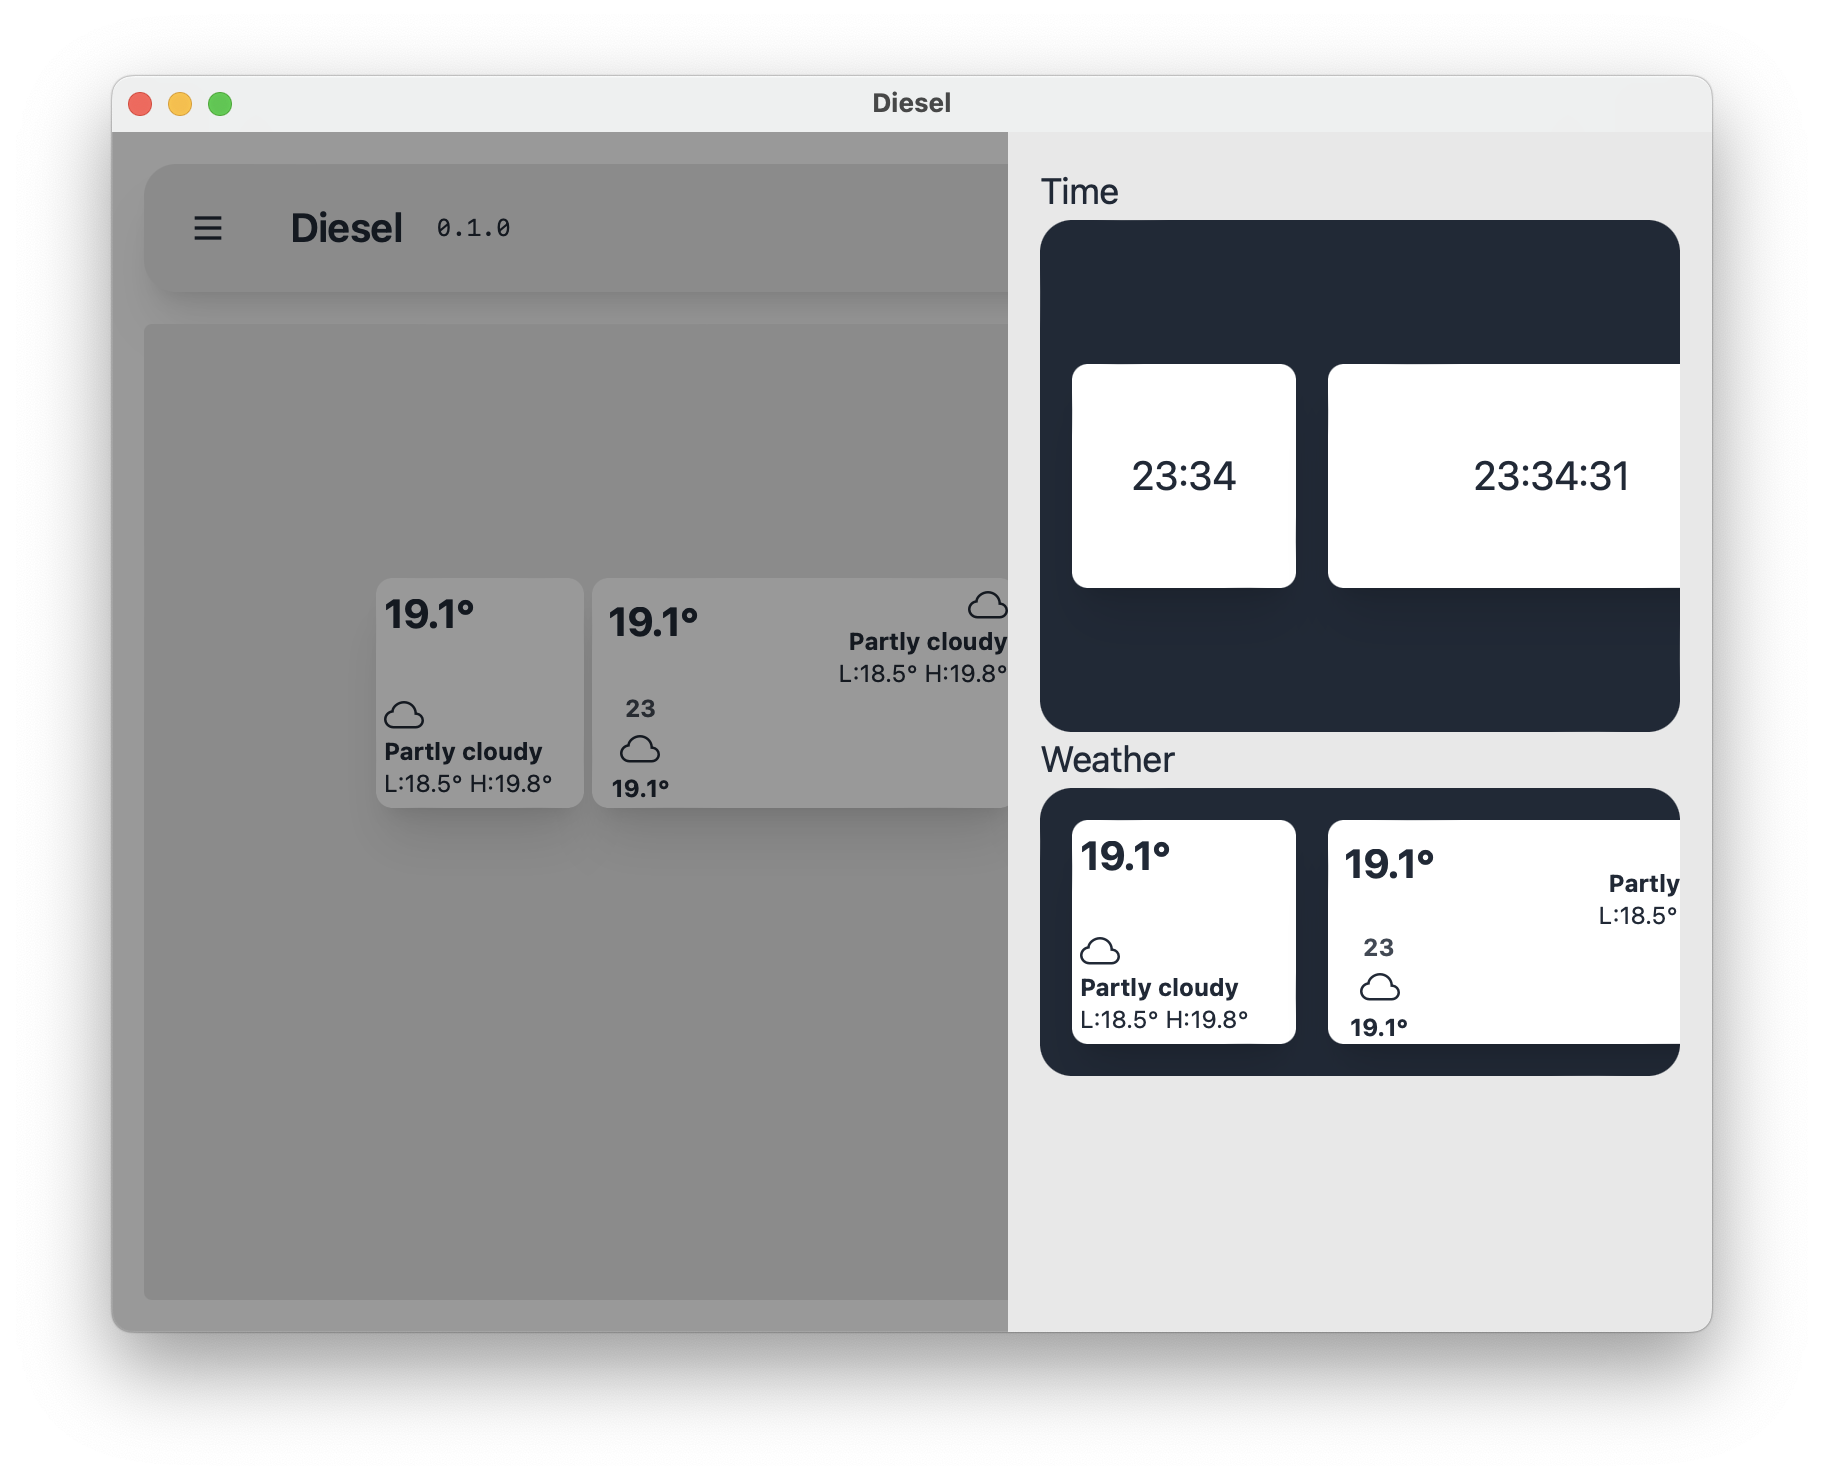
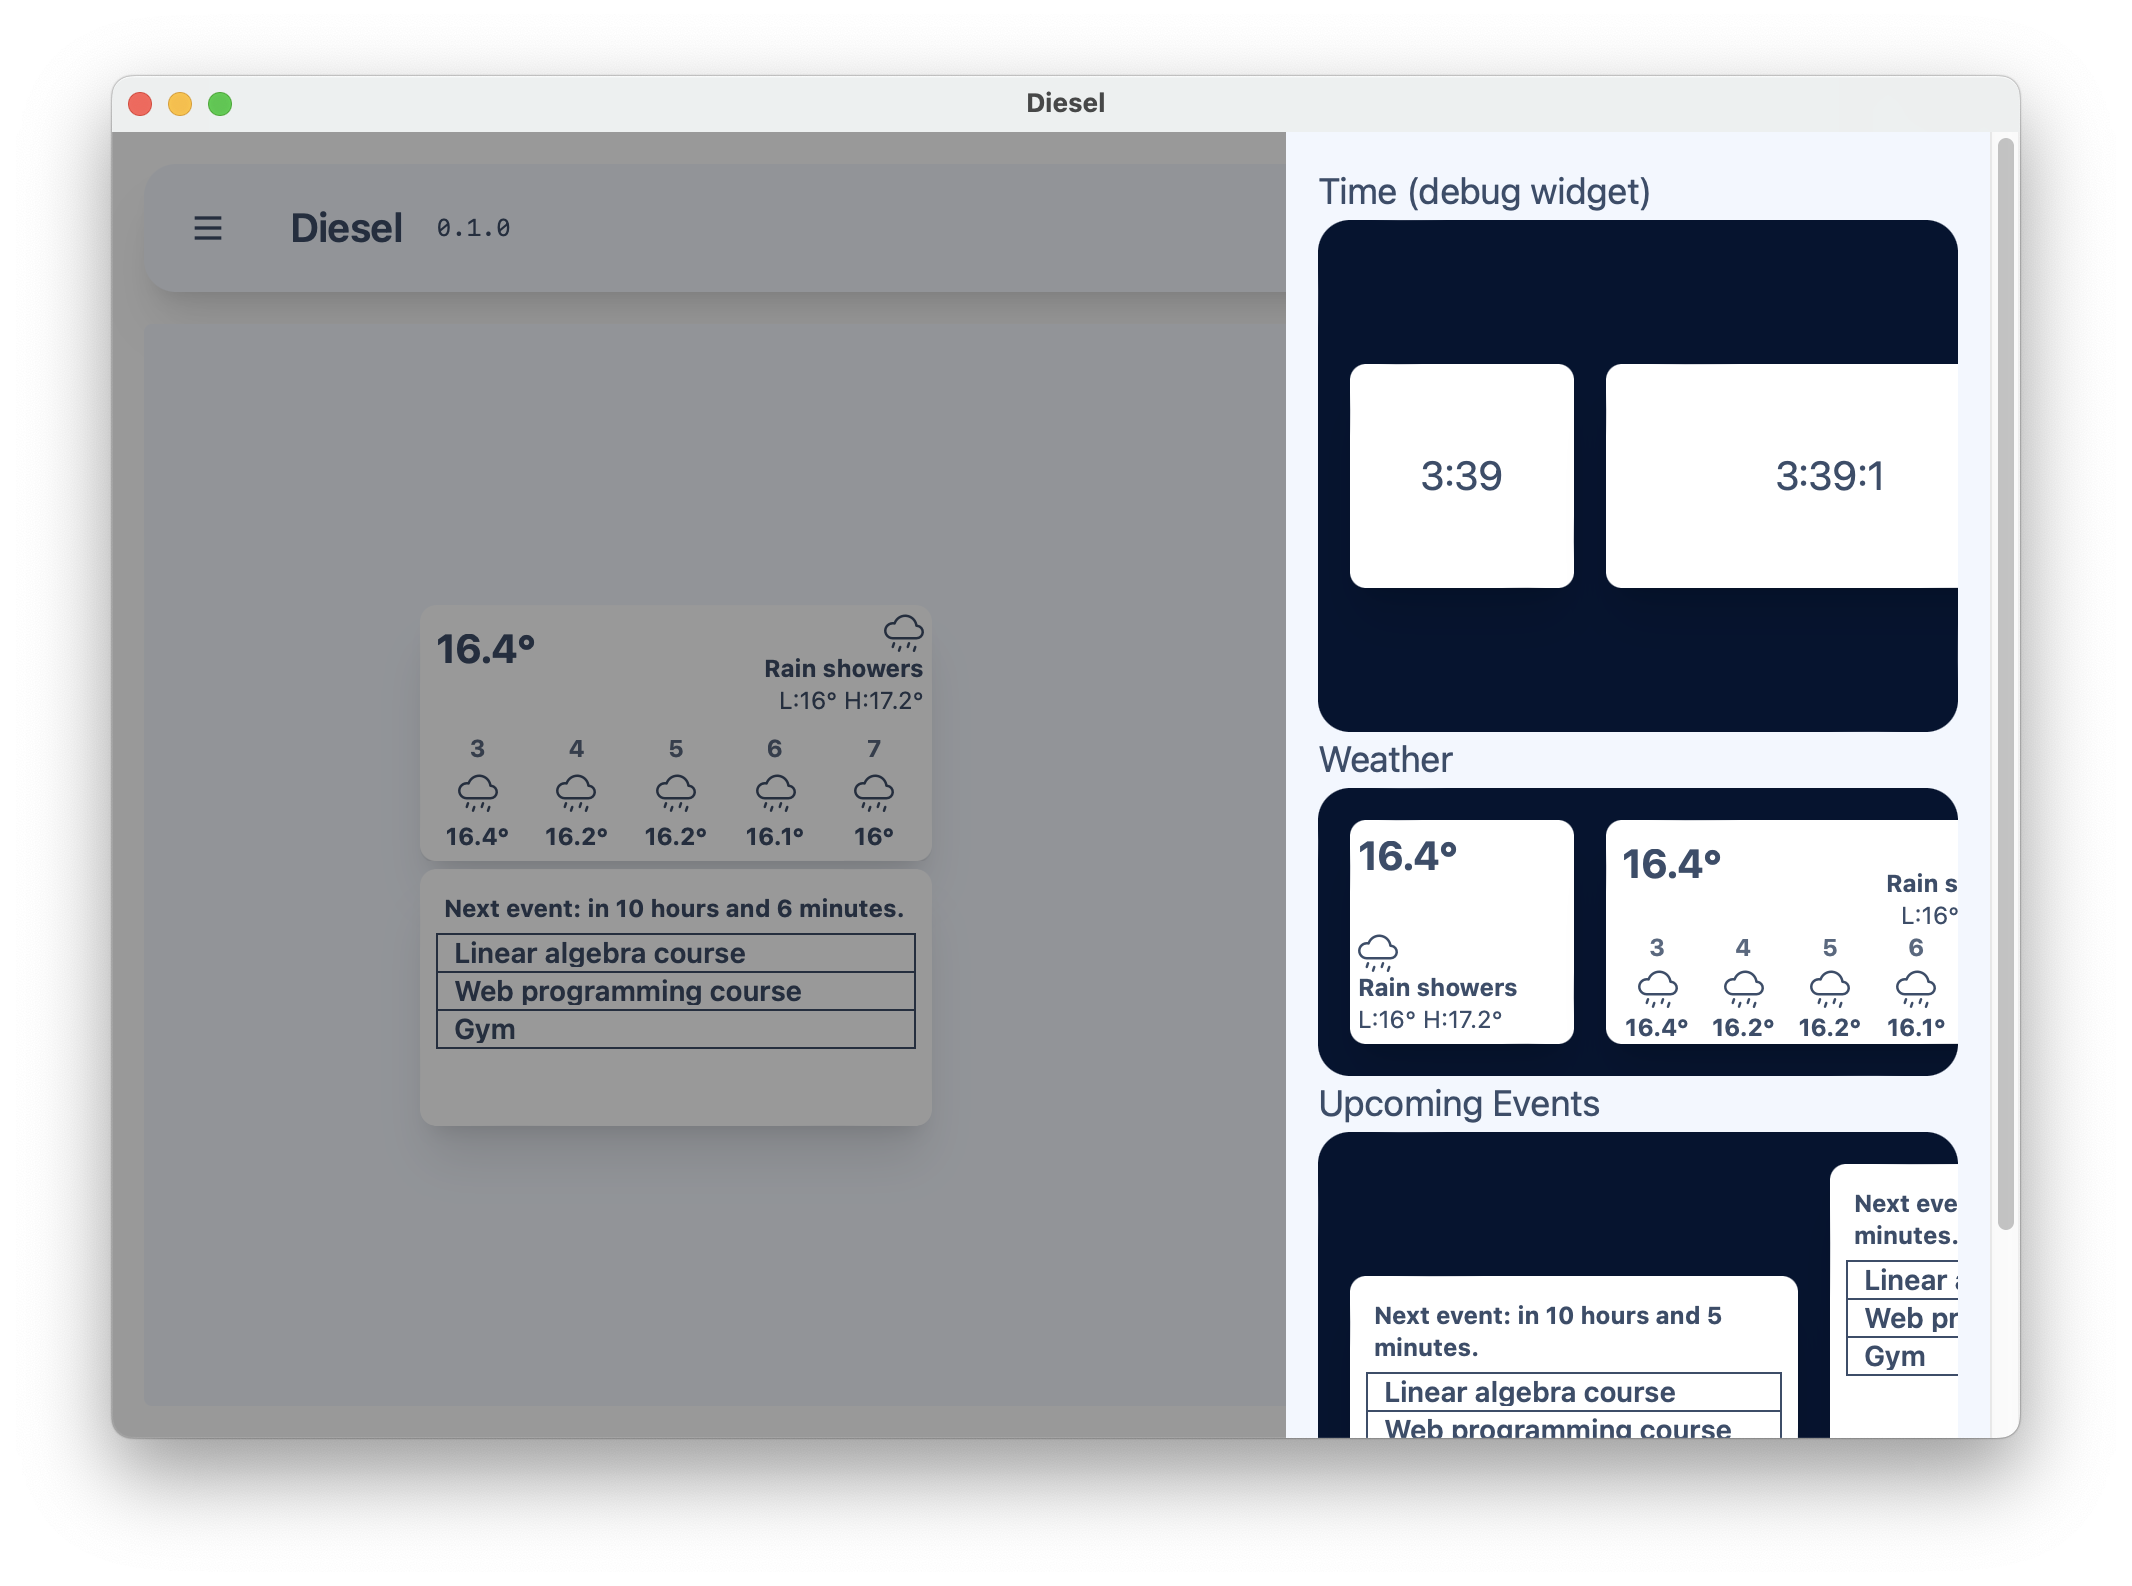
Update screenshots and fix settings view

diff --git a/src/css/tailwind.css b/src/css/tailwind.css
@@ -4434,6 +4434,14 @@ html {
   max-height: 100%;
 }
 
+.max-h-72 {
+  max-height: 18rem;
+}
+
+.max-h-64 {
+  max-height: 16rem;
+}
+
 .min-h-0 {
   min-height: 0px;
 }

diff --git a/src/ui/component/settings.rs b/src/ui/component/settings.rs
@@ -80,7 +80,7 @@ fn Appearance<'a>(cx: &'a ScopeState, _: &'a UseSharedState<ConfigurationManager
             }
         }
         div {
-            class: "max-h-40 overflow-y-auto",
+            class: "max-h-64 overflow-y-auto",
             div {
                 class: "grid grid-cols-2 gap-2 p-2",
                 cards
@@ -100,7 +100,7 @@ pub fn Settings(cx: Scope) -> Element {
     let views = VIEWS.iter().enumerate().map(|(i, view)| {
         render! {
             div {
-                hidden: page.get() == &i,
+                hidden: page.get() != &i,
                 view(cx, cfg_manager),
             }
         }

diff --git a/README.md b/README.md
@@ -81,6 +81,11 @@ The language defines an expression to be either a:
 | `wdp`    | `weekday`, `date` | The date of the previous `weekday`                 |
 | `nw`     | `date`, `date`    | The number of weeks in the span of the given dates |
 
+## Preview
+### Settings → Appearance
+Diesel offers a variety of themes (32) provided by daisyUI:
+![](./examples/SettingsAppearance.png)
+
 ## Building from source
 Install the following dependencies and build the project using `cargo build`.
 
